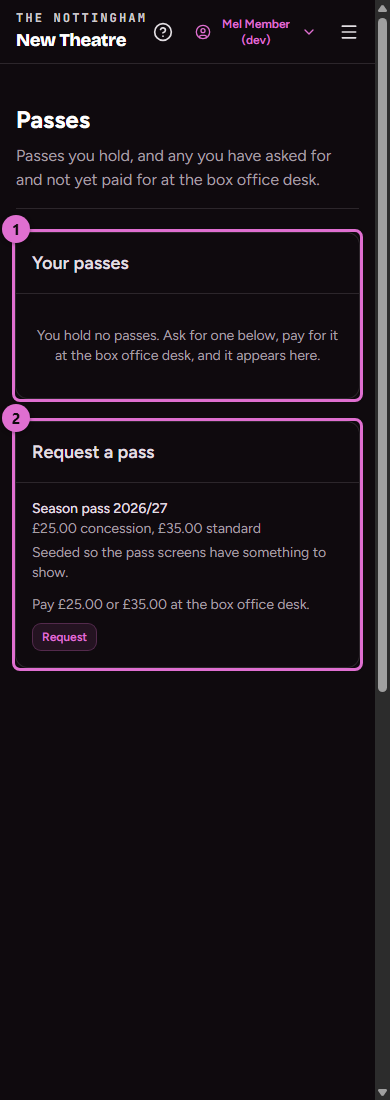
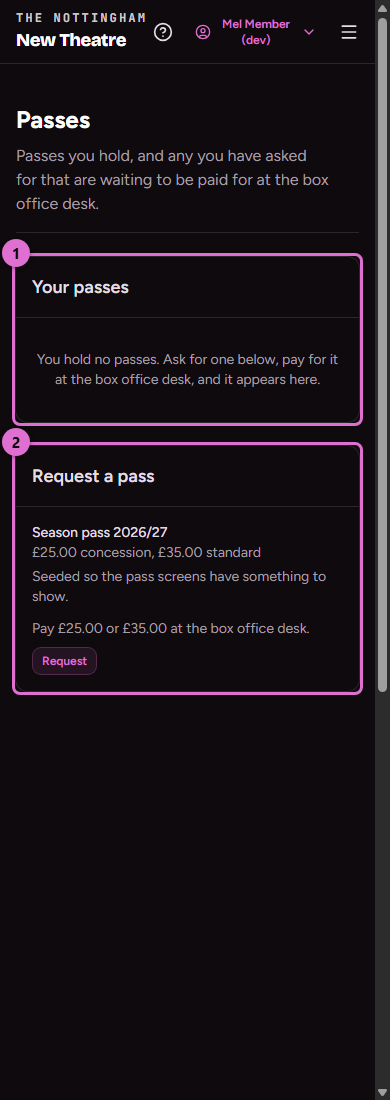
Ask before a pass request is withdrawn, and word the passes header without promising later (#1478 CI)

Changed region(s): [[0.0, 0.1236, 0.9538, 0.6491]]

diff --git a/app/pages/account/passes.vue b/app/pages/account/passes.vue
@@ -69,20 +69,41 @@ async function requestPass(passTypeId: string): Promise<void> {
   }
 }
 
-async function withdrawRequest(passTypeId: string, requestId: string): Promise<void> {
-  requesting.value = passTypeId
-  requestFailure.value = null
+// Withdrawing removes the request, so it is asked about first (K-123, 0032); a refusal reads in
+// the dialogue, not behind it.
+const withdrawalAsked = ref<{ requestId: string, name: string } | null>(null)
+const confirmingWithdrawal = computed({
+  get: () => withdrawalAsked.value !== null,
+  set: (open) => {
+    if (!open) withdrawalAsked.value = null
+  },
+})
+const withdrawing = ref(false)
+const withdrawFailure = ref<string | null>(null)
+
+function askWithdraw(type: SellablePassType): void {
+  if (!type.openRequestId) return
+  withdrawFailure.value = null
+  withdrawalAsked.value = { requestId: type.openRequestId, name: type.name }
+}
+
+async function withdrawRequest(): Promise<void> {
+  const asked = withdrawalAsked.value
+  if (!asked) return
+  withdrawing.value = true
+  withdrawFailure.value = null
   try {
-    await $fetch(`/api/account/passes/requests/${requestId}`, { method: 'DELETE' })
+    await $fetch(`/api/account/passes/requests/${asked.requestId}`, { method: 'DELETE' })
+    withdrawalAsked.value = null
     toast.add({ title: 'Request withdrawn', icon: 'i-lucide-check', color: 'neutral' })
     await refresh()
   }
   catch (error) {
-    requestFailure.value = refusalText(error)
+    withdrawFailure.value = refusalText(error)
     await refresh()
   }
   finally {
-    requesting.value = null
+    withdrawing.value = false
   }
 }
 
@@ -103,7 +124,7 @@ const statusColor: Record<string, 'success' | 'neutral' | 'error' | 'warning'> =
   >
     <UPageHeader
       title="Passes"
-      description="Passes you hold, and any you have asked for and not yet paid for at the box office desk."
+      description="Passes you hold, and any you have asked for that are waiting to be paid for at the box office desk."
       :ui="MEMBER_PAGE_HEADER"
     />
 
@@ -242,9 +263,8 @@ const statusColor: Record<string, 'success' | 'neutral' | 'error' | 'warning'> =
                 size="sm"
                 color="neutral"
                 variant="subtle"
-                :loading="requesting === type.id"
                 :data-test="`account-pass-withdraw-${type.id}`"
-                @click="withdrawRequest(type.id, type.openRequestId)"
+                @click="askWithdraw(type)"
               >
                 Withdraw
               </UButton>
@@ -268,5 +288,16 @@ const statusColor: Record<string, 'success' | 'neutral' | 'error' | 'warning'> =
         </ul>
       </UCard>
     </div>
+
+    <ConfirmModal
+      v-model:open="confirmingWithdrawal"
+      name="withdraw-pass-request"
+      :title="`Withdraw your request for ${withdrawalAsked?.name ?? 'this pass'}`"
+      verb="Withdraw the request"
+      consequence="The box office desk no longer sees it. You can ask for the pass again afterwards."
+      :loading="withdrawing"
+      :failure="withdrawFailure"
+      @confirm="withdrawRequest"
+    />
   </UContainer>
 </template>

diff --git a/content/docs/02.my-nnt/3.passes.md b/content/docs/02.my-nnt/3.passes.md
@@ -59,8 +59,9 @@ desk, on the Students' Union's card reader, when it is collected; the screen onl
    **Your passes** as Active.
 
 A request reserves nothing and admits nobody, and there is one open request per pass type: a
-second press asks for nothing more. **Withdraw** takes an unpaid request back, so the desk no
-longer sees it; it can be asked for again afterwards. A request lapses on its own if the pass
+second press asks for nothing more. **Withdraw** asks first, naming the pass: **Withdraw the
+request** takes an unpaid request back, so the desk no longer sees it, and **Back** leaves it
+standing. It can be asked for again afterwards. A request lapses on its own if the pass
 type's sales window closes before it is paid for, and then reads Expired.
 
 ## Reading a pass
